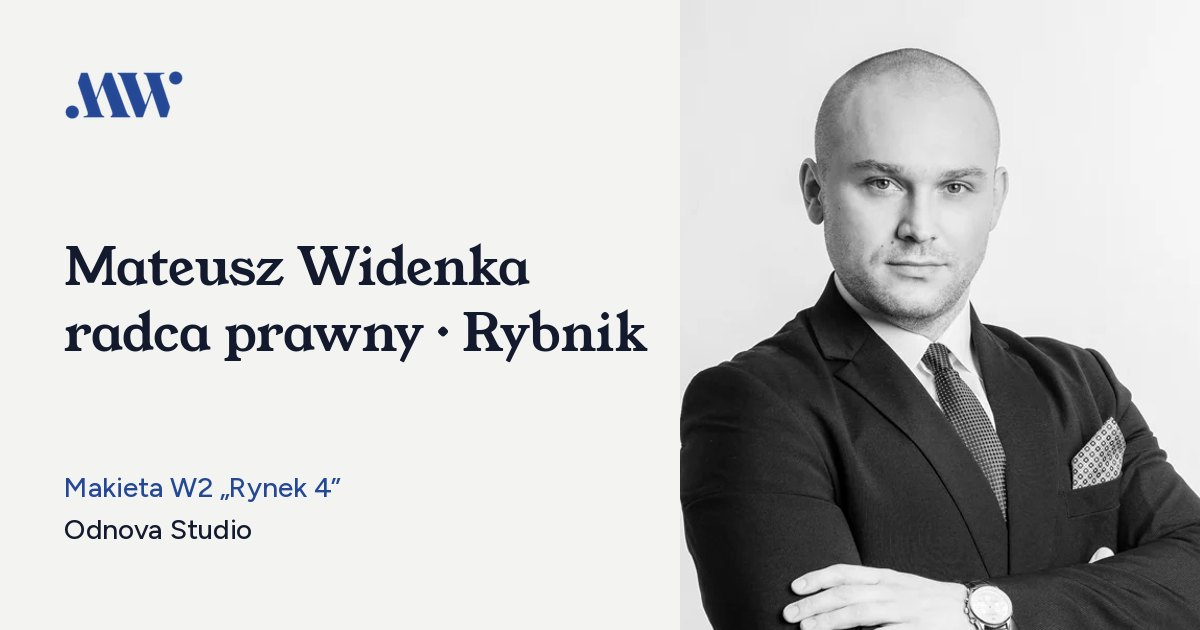
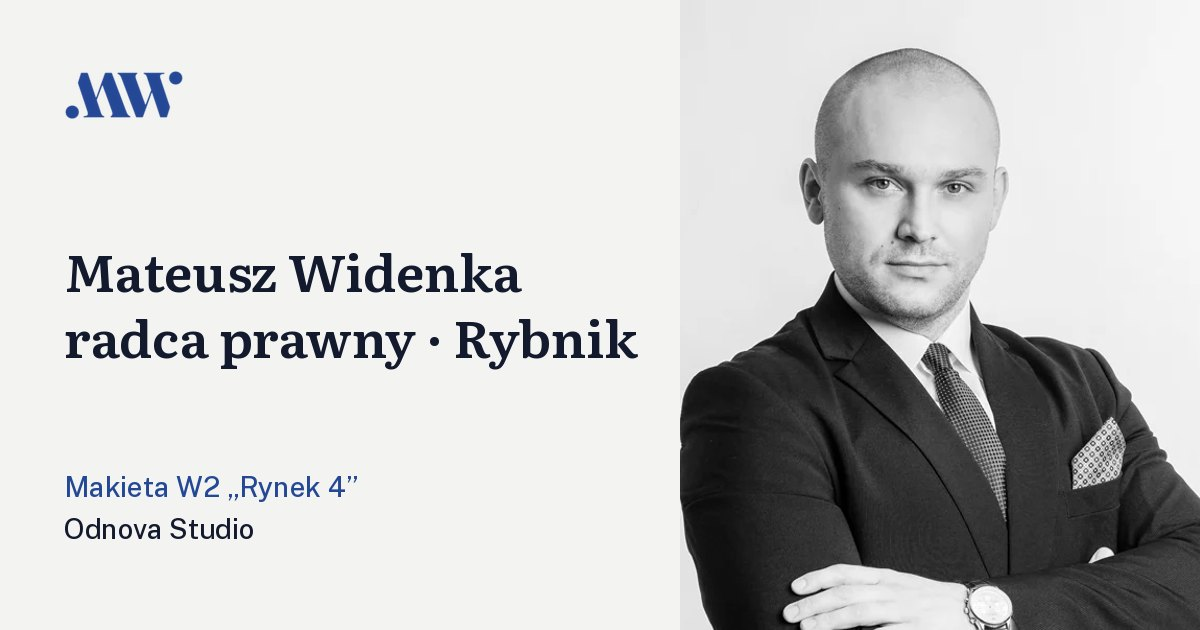
Widenka: nowe kroje i animacje w hero (W1 szyba, W2 uwagi radcy)
Claude-Session: https://claude.ai/code/session_019GJy34qFJ71e5x4yE8umKJ

Changed region(s): [[0.0308, 0.3921, 0.555, 0.6032], [0.0308, 0.754, 0.3083, 0.8746]]

diff --git a/p/widenka-w1-regula/index.html b/p/widenka-w1-regula/index.html
@@ -17,15 +17,16 @@
 <link rel="icon" href="a/fav.png">
 <script>document.documentElement.classList.add('js')</script>
 <link rel="preconnect" href="https://fonts.googleapis.com"><link rel="preconnect" href="https://fonts.gstatic.com" crossorigin>
-<link href="https://fonts.googleapis.com/css2?family=Ibarra+Real+Nova:ital,wght@0,400;0,500;0,600;1,400&family=Hanken+Grotesk:wght@400;500;600&display=swap" rel="stylesheet">
+<link href="https://fonts.googleapis.com/css2?family=Libre+Caslon+Display&family=Rethink+Sans:wght@400;500;600&family=Cinzel:wght@400;500&display=swap" rel="stylesheet">
 <style>
 :root{
   --bg:#0A0F16; --bg2:#101823; --ink:#E7EBEF; --mut:#A3AEBA; --line:rgba(231,235,239,.14);
   --acc:#8FADFF; --paper:#ECEEF0; --pink:#0F1622; --pmut:#4A5463; --pline:#CBD0D6; --pacc:#254896;
-  --serif:'Ibarra Real Nova',Georgia,serif; --sans:'Hanken Grotesk',system-ui,sans-serif;
+  --serif:'Libre Caslon Display',Georgia,serif; --sans:'Rethink Sans',system-ui,sans-serif; --cap:'Cinzel',Georgia,serif;
   --hdr-h:96px;
 }
 *{box-sizing:border-box}
+.sr{position:absolute;width:1px;height:1px;overflow:hidden;clip:rect(0 0 0 0);white-space:nowrap}
 html{scroll-behavior:smooth}
 body{margin:0;background:var(--bg);color:var(--ink);font:400 17px/1.6 var(--sans);-webkit-font-smoothing:antialiased;caret-color:var(--acc);accent-color:var(--pacc)}
 ::selection{background:var(--acc);color:#0A0F16}
@@ -34,7 +35,7 @@ img{max-width:100%;height:auto;display:block}
 a{color:inherit}
 .wrap{width:100%;max-width:1240px;margin:0 auto;padding:0 32px}
 section[id]{scroll-margin-top:calc(var(--hdr-h) + 8px)}
-h1,h2,h3{font-family:var(--serif);font-weight:500;letter-spacing:-.01em;margin:0}
+h1,h2,h3{font-family:var(--serif);font-weight:400;letter-spacing:-.005em;margin:0}
 h2{font-size:clamp(2.3rem,4.4vw,3.7rem);line-height:1.04}
 .lead{font-size:1.15rem;color:var(--mut);max-width:38em}
 .light{background:var(--paper);color:var(--pink)}
@@ -67,24 +68,49 @@ h2{font-size:clamp(2.3rem,4.4vw,3.7rem);line-height:1.04}
 .mnav nav a{padding:12px 20px;text-decoration:none}
 .mnav nav .btn{margin:8px 16px 8px;justify-content:center}
 
-/* hero */
-.hero{position:relative;min-height:100svh;display:flex;align-items:flex-end;overflow:hidden;background:#05080c}
-.hero video,.hero .poster{position:absolute;inset:0;width:100%;height:100%;object-fit:cover;opacity:.78}
-.hero::after{content:"";position:absolute;inset:0;background:linear-gradient(180deg,rgba(10,15,22,.55) 0%,rgba(10,15,22,0) 30%,rgba(10,15,22,.15) 55%,rgba(10,15,22,.92) 88%,var(--bg) 100%)}
-.vctl{position:absolute;right:32px;bottom:32px;z-index:3;min-height:44px;padding:0 16px;background:rgba(10,15,22,.6);color:var(--ink);border:1px solid var(--line);border-radius:2px;font:500 .9rem var(--sans);cursor:pointer}
+/* hero: szyba, która przeciera się przy przewijaniu */
+.hero{position:relative;background:#05080c;--p:0}
+.pin{position:relative;min-height:100svh;display:flex;align-items:flex-end;overflow:hidden}
+.pin video,.pin .poster{position:absolute;inset:0;width:100%;height:100%;object-fit:cover;opacity:calc(.8 - var(--p) * .35)}
+.pin::after{content:"";position:absolute;inset:0;background:linear-gradient(180deg,rgba(10,15,22,.55) 0%,rgba(10,15,22,0) 30%,rgba(10,15,22,.2) 55%,rgba(10,15,22,.93) 90%,var(--bg) 100%)}
+.vctl{position:absolute;right:32px;top:calc(var(--hdr-h) + 20px);z-index:3;min-height:40px;padding:0 14px;background:rgba(10,15,22,.55);color:var(--ink);border:1px solid var(--line);border-radius:2px;font:500 .85rem var(--sans);cursor:pointer}
 .vctl:hover{border-color:var(--ink)}
 html:not(.js) .vctl{display:none}
-.hero .wrap{position:relative;z-index:2;padding-top:calc(var(--hdr-h) + 60px);padding-bottom:64px}
+.hero .wrap{position:relative;z-index:2;padding-top:calc(var(--hdr-h) + 60px);padding-bottom:60px;display:grid;grid-template-columns:7fr 4fr;gap:60px;align-items:end}
+.hero h1{font-size:clamp(2.9rem,6.8vw,6.3rem);line-height:.98;max-width:10em;text-wrap:balance;text-shadow:0 2px 30px rgba(0,0,0,.45)}
+.hero h1::after{content:"";display:block;width:64px;height:3px;background:var(--acc);margin-top:30px;transform-origin:left;animation:zab 1s .9s cubic-bezier(.22,.61,.36,1) both}
+@keyframes zab{from{transform:scaleX(0)}}
+.js .w{display:inline-block;overflow:hidden;vertical-align:bottom;padding:0 .02em .2em;margin:0 -.02em -.2em}
+.js .w>span{display:inline-block;transform:translateY(105%);animation:wup .95s cubic-bezier(.22,.61,.36,1) forwards;animation-delay:calc(.15s + var(--i) * 90ms)}
+@keyframes wup{to{transform:none}}
+.hero p.sub{font-size:1.15rem;max-width:33em;margin:26px 0 32px;color:#D3DAE1;text-shadow:0 1px 16px rgba(0,0,0,.5)}
+.cta{display:flex;flex-wrap:wrap;gap:14px;align-items:center}
+.hero .meta{display:flex;gap:36px;flex-wrap:wrap;margin-top:50px;padding-top:20px;border-top:1px solid var(--line);font-size:.95rem;color:var(--mut)}
+.hero .meta b{color:var(--ink);font-weight:500}
+.pane{margin:0;justify-self:end;width:100%;max-width:430px}
+.glass{position:relative;aspect-ratio:643/603;overflow:hidden;outline:1px solid rgba(231,235,239,.18);outline-offset:10px}
+.glass img{position:absolute;inset:0;width:100%;height:100%;object-fit:cover}
+.glass .frost,.glass .tint{clip-path:inset(0 0 0 calc(var(--p) * 100%))}
+.glass .frost{filter:blur(18px) saturate(.45) brightness(1.12) contrast(.8);transform:scale(1.12)}
+.glass .tint{position:absolute;inset:0;background:repeating-linear-gradient(90deg,rgba(214,226,238,.16) 0 46px,rgba(214,226,238,.05) 46px 50px,rgba(214,226,238,.22) 50px 52px),linear-gradient(180deg,rgba(190,206,222,.28),rgba(120,140,160,.18))}
+.glass .tint::after{content:"";position:absolute;inset:0;background:linear-gradient(105deg,transparent 30%,rgba(255,255,255,.28) 48%,transparent 62%);transform:translateX(-120%);animation:shine 2.4s 1.6s ease-in-out both}
+@keyframes shine{to{transform:translateX(120%)}}
+.glass .edge{position:absolute;top:0;bottom:0;left:calc(var(--p) * 100%);width:2px;margin-left:-1px;background:linear-gradient(180deg,transparent,#DCE7FF 20%,#fff 50%,#DCE7FF 80%,transparent);box-shadow:0 0 22px 6px rgba(143,173,255,.45);opacity:calc(min(var(--p) * 12, 1) * min((1 - var(--p)) * 12, 1))}
+.pane figcaption{display:flex;justify-content:space-between;gap:16px;margin-top:22px;font-size:.92rem;color:var(--mut)}
+.pane figcaption b{color:var(--ink);font-weight:500}
+.pane .pbar{height:1px;background:rgba(231,235,239,.18);margin-top:14px;position:relative}
+.pane .pbar::after{content:"";position:absolute;left:0;top:-1px;height:3px;width:calc(var(--p) * 100%);background:var(--acc)}
+html:not(.js) .glass .frost,html:not(.js) .glass .tint,html:not(.js) .glass .edge,html:not(.js) .pane .pbar{display:none}
+@media (min-width:1021px){
+  .js .hero{height:235vh}
+  .js .pin{position:sticky;top:0;height:100svh}
+}
 .regula{margin-bottom:110px;padding-bottom:70px;border-bottom:1px solid var(--line)}
-.regula blockquote{margin:0;font:italic 400 clamp(1.8rem,3.6vw,3.2rem)/1.18 var(--serif);max-width:19em}
+.regula blockquote{margin:0;font:400 clamp(1.45rem,3vw,2.7rem)/1.3 var(--cap);letter-spacing:.05em;max-width:22em;color:#DCE3EA}
+.js .regula blockquote span{display:inline-block;filter:blur(9px);opacity:.2;transition:filter 1.1s ease,opacity 1.1s ease;transition-delay:calc(var(--i,0)*110ms)}
+.js .regula.in blockquote span{filter:none;opacity:1}
 .regula p{color:var(--mut);margin:18px 0 0;font-size:1.05rem}
 .regula p::before{content:"";display:inline-block;width:34px;height:2px;background:var(--acc);vertical-align:middle;margin-right:14px}
-.hero h1{font-size:clamp(2.8rem,6.6vw,6rem);line-height:.98;max-width:10em;text-wrap:balance;text-shadow:0 2px 30px rgba(0,0,0,.45)}
-.hero h1::after{content:"";display:block;width:64px;height:3px;background:var(--acc);margin-top:30px}
-.hero p.sub{font-size:1.18rem;max-width:34em;margin:26px 0 34px;color:#D3DAE1;text-shadow:0 1px 16px rgba(0,0,0,.5)}
-.cta{display:flex;flex-wrap:wrap;gap:14px;align-items:center}
-.hero .meta{display:flex;gap:36px;flex-wrap:wrap;margin-top:54px;padding-top:20px;border-top:1px solid var(--line);font-size:.95rem;color:var(--mut)}
-.hero .meta b{color:var(--ink);font-weight:500}
 
 /* sprawy */
 .sprawy{padding:130px 0 120px}
@@ -117,7 +143,7 @@ html:not(.js) .vctl{display:none}
 .omnie p{color:#CAD2DA;margin:0 0 18px;max-width:36em}
 .facts{margin:38px 0 0;padding:0;list-style:none;border-top:1px solid var(--line)}
 .facts li{padding:18px 0;border-bottom:1px solid var(--line);color:var(--mut)}
-.facts li b{font-family:var(--serif);font-weight:500;font-size:1.32rem;color:var(--ink);display:block;line-height:1.2;margin-bottom:2px}
+.facts li b{font-family:var(--sans);font-weight:600;font-size:1.06rem;color:var(--ink);display:block;line-height:1.2;margin-bottom:2px}
 
 /* proces */
 .proces{padding:120px 0}
@@ -127,7 +153,7 @@ html:not(.js) .vctl{display:none}
 .step .n{font-family:var(--serif);font-size:2.6rem;line-height:1;color:var(--pacc);margin:26px 0 14px}
 .step::before{content:"";position:absolute;top:-1px;left:0;height:2px;width:0;background:var(--pacc);transition:width 1s cubic-bezier(.22,.61,.36,1)}
 .step.in::before{width:calc(100% - 28px)}
-.step h3{font-size:1.45rem;margin-bottom:10px}
+.step h3{font-family:var(--sans);font-weight:600;font-size:1.12rem;margin-bottom:8px}
 .step p{margin:0;color:var(--pmut);font-size:.99rem}
 
 /* opinie */
@@ -136,7 +162,8 @@ html:not(.js) .vctl{display:none}
 .opinie h2{margin-bottom:56px}
 .quotes{display:grid;grid-template-columns:7fr 5fr;gap:0 70px}
 .q{margin:0;padding:30px 0;border-top:1px solid var(--line)}
-.q p{margin:0;font-family:var(--serif);font-size:1.35rem;line-height:1.45;color:#DCE2E8}
+.q p{margin:0;font-size:1.08rem;line-height:1.6;color:#DCE2E8}
+.q.big p{font-family:var(--serif)}
 .q.big{grid-row:span 2}
 .q.big p{font-size:clamp(1.6rem,2.4vw,2.15rem);line-height:1.3;color:var(--ink)}
 .q footer{margin-top:16px;font-size:.92rem;color:var(--mut)}
@@ -161,7 +188,7 @@ html:not(.js) .vctl{display:none}
 .dane{list-style:none;margin:36px 0 0;padding:0}
 .dane li{padding:18px 0;border-top:1px solid var(--line)}
 .dane span{display:block;font-size:.88rem;color:var(--mut)}
-.dane a,.dane strong{font-family:var(--serif);font-size:1.55rem;font-weight:500;text-decoration:none;font-variant-numeric:lining-nums}
+.dane a,.dane strong{font-family:var(--serif);font-size:1.6rem;font-weight:400;text-decoration:none;font-variant-numeric:lining-nums}
 .dane .tnum{font-family:var(--sans);font-size:1.45rem;font-variant-numeric:lining-nums tabular-nums}
 .form{background:var(--paper);color:var(--pink);padding:44px}
 .form h3{font-size:1.7rem;margin-bottom:6px}
@@ -197,6 +224,8 @@ footer.site .legal{flex-basis:100%;font-size:.82rem;color:#7D8996}
   .mnav{display:block}
   .hdr .wrap{gap:14px}
   .hdr .hcta{margin-left:auto}
+  .hero .wrap{grid-template-columns:1fr;gap:44px}
+  .pane{justify-self:stretch;max-width:520px}
   .sprawy .head,.inne,.omnie .grid,.kontakt .grid{grid-template-columns:1fr;gap:36px}
   .case{grid-template-columns:1fr;gap:18px}
   .steps{grid-template-columns:1fr 1fr;gap:10px 0}
@@ -211,9 +240,10 @@ footer.site .legal{flex-basis:100%;font-size:.82rem;color:#7D8996}
   .wrap{padding:0 20px}
   .brand img{width:38px}
   .brand span{font-size:1.06rem}
-  .hero{min-height:92svh}
   .hero .wrap{padding-bottom:40px}
-  .vctl{right:20px;top:calc(var(--hdr-h) + 14px);bottom:auto;min-height:40px;font-size:.85rem}
+  .glass{aspect-ratio:4/3;outline-offset:6px}
+  .glass img{object-position:50% 25%}
+  .vctl{right:20px;top:calc(var(--hdr-h) + 14px)}
   .hero .meta{gap:10px 24px;margin-top:36px}
   .cta .btn{flex:1 1 100%;justify-content:center}
   .sprawy,.omnie,.opinie,.kontakt{padding:84px 0}
@@ -240,6 +270,9 @@ footer.site .legal{flex-basis:100%;font-size:.82rem;color:#7D8996}
 @media (prefers-reduced-motion:reduce){
   html{scroll-behavior:auto}
   .js .reveal{opacity:1;transform:none;transition:none}
+  .js .w>span,.hero h1::after{animation:none;transform:none}
+  .js .regula blockquote span{filter:none;opacity:1;transition:none}
+  .glass .tint::after{animation:none}
   .step::before{transition:none}
 }
 </style>
@@ -270,6 +303,7 @@ footer.site .legal{flex-basis:100%;font-size:.82rem;color:#7D8996}
 
 <main>
 <section class="hero" id="start">
+ <div class="pin">
   <img class="poster" src="a/w1-hero-poster.jpg" alt="">
   <video autoplay muted loop playsinline preload="auto" poster="a/w1-hero-poster.jpg" aria-hidden="true">
     <source media="(max-width:760px)" src="a/w1-hero-720.mp4" type="video/mp4">
@@ -277,14 +311,27 @@ footer.site .legal{flex-basis:100%;font-size:.82rem;color:#7D8996}
   </video>
   <button class="vctl" type="button" aria-pressed="false">Zatrzymaj film</button>
   <div class="wrap">
-    <h1>Radca prawny w&nbsp;Rybniku</h1>
-    <p class="sub">Prawo pracy, umowy i&nbsp;spory z&nbsp;bankami. Mateusz Widenka, kancelaria przy Rynku 4/1. Doradzam, piszę pisma i&nbsp;występuję przed sądem. Spotkanie w&nbsp;kancelarii, w&nbsp;Państwa firmie albo zdalnie.</p>
-    <div class="cta">
-      <a class="btn" href="tel:+48792055316"><svg viewBox="0 0 24 24" fill="none" stroke="currentColor" stroke-width="1.8" aria-hidden="true"><path d="M5 4h4l2 5-2.5 1.5a11 11 0 0 0 5 5L15 13l5 2v4a2 2 0 0 1-2 2A16 16 0 0 1 3 6a2 2 0 0 1 2-2"/></svg>Zadzwoń: 792 055 316</a>
-      <a class="btn ghost" href="#kontakt">Wyślij opis sprawy</a>
+    <div>
+      <h1 data-words>Radca prawny w&nbsp;Rybniku</h1>
+      <p class="sub">Prawo pracy, umowy i&nbsp;spory z&nbsp;bankami. Mateusz Widenka, kancelaria przy Rynku 4/1. Doradzam, piszę pisma i&nbsp;występuję przed sądem. Spotkanie w&nbsp;kancelarii, w&nbsp;Państwa firmie albo zdalnie.</p>
+      <div class="cta">
+        <a class="btn" href="tel:+48792055316"><svg viewBox="0 0 24 24" fill="none" stroke="currentColor" stroke-width="1.8" aria-hidden="true"><path d="M5 4h4l2 5-2.5 1.5a11 11 0 0 0 5 5L15 13l5 2v4a2 2 0 0 1-2 2A16 16 0 0 1 3 6a2 2 0 0 1 2-2"/></svg>Zadzwoń: 792 055 316</a>
+        <a class="btn ghost" href="#kontakt">Wyślij opis sprawy</a>
+      </div>
+      <div class="meta"><span><b>Wpis KT-4093</b> · OIRP w&nbsp;Katowicach</span><span><b>Od 2019 r.</b> własna kancelaria</span><span><b>Online</b> w&nbsp;całej Polsce</span></div>
     </div>
-    <div class="meta"><span><b>Wpis KT-4093</b> · OIRP w&nbsp;Katowicach</span><span><b>Od 2019 r.</b> własna kancelaria</span><span><b>Online</b> w&nbsp;całej Polsce</span></div>
+    <figure class="pane">
+      <div class="glass">
+        <img src="a/portret-toga.webp" alt="Radca prawny Mateusz Widenka w todze" width="643" height="603">
+        <img class="frost" src="a/portret-toga.webp" alt="" aria-hidden="true">
+        <div class="tint" aria-hidden="true"></div>
+        <div class="edge" aria-hidden="true"></div>
+      </div>
+      <div class="pbar" aria-hidden="true"></div>
+      <figcaption><b>Mateusz Widenka</b><span>radca prawny od 2018 r.</span></figcaption>
+    </figure>
   </div>
+ </div>
 </section>
 
 <section class="sprawy light" id="sprawy">
@@ -331,7 +378,7 @@ footer.site .legal{flex-basis:100%;font-size:.82rem;color:#7D8996}
 </section>
 
 <section class="omnie" id="o-mnie">
-  <div class="wrap regula"><blockquote lang="la">Non ex regula ius sumatur, sed ex iure quod est regula fiat</blockquote><p>Reguły nie tworzą prawa, lecz się z&nbsp;niego wywodzą.</p></div>
+  <div class="wrap regula" data-split><blockquote lang="la">Non ex regula ius sumatur, sed ex iure quod est regula fiat</blockquote><p>Reguły nie tworzą prawa, lecz się z&nbsp;niego wywodzą.</p></div>
   <div class="wrap grid">
     <figure class="fig">
       <img src="a/portret-toga.webp" alt="Radca prawny Mateusz Widenka w todze" width="643" height="603" loading="lazy">
@@ -435,14 +482,26 @@ footer.site .legal{flex-basis:100%;font-size:.82rem;color:#7D8996}
   var d=document, html=d.documentElement, top=d.querySelector('.top');
   function m(){html.style.setProperty('--hdr-h',top.offsetHeight+'px')}
   m(); addEventListener('resize',m); addEventListener('load',m);
-  var hero=d.querySelector('.hero');
+  var hero=d.querySelector('.hero'), pane=d.querySelector('.pane'), RM=matchMedia('(prefers-reduced-motion:reduce)').matches, wide=matchMedia('(min-width:1021px)');
+  // słowa H1 i maksymy
+  d.querySelectorAll('[data-words]').forEach(function(h){var t=h.textContent.split(' ');var full=h.textContent;h.innerHTML=t.map(function(w,i){return '<span class="w" aria-hidden="true" style="--i:'+i+'"><span>'+w+'</span></span>'}).join(' ')+'<span class="sr">'+full+'</span>'});
+  d.querySelectorAll('[data-split] blockquote').forEach(function(b){var t=b.textContent.split(' ');b.innerHTML=t.map(function(w,i){return '<span style="--i:'+i+'">'+w+'</span>'}).join(' ')});
+  // szyba
+  var tick=false;
+  function prog(){tick=false;var p;
+    if(RM)p=1;
+    else if(wide.matches){var r=hero.getBoundingClientRect();p=-r.top/((r.height-innerHeight)*.8)}
+    else{var q=pane.getBoundingClientRect();p=(innerHeight*.92-q.top)/(innerHeight*.55)}
+    p=Math.max(0,Math.min(1,p));hero.style.setProperty('--p',p.toFixed(4))}
+  addEventListener('scroll',function(){if(!tick){tick=true;requestAnimationFrame(prog)}},{passive:true});
+  addEventListener('resize',prog); prog();
   function onS(){
     d.body.classList.toggle('scrolled',scrollY>20);
     d.body.classList.toggle('past-hero',hero.getBoundingClientRect().bottom<innerHeight*.5);
   }
   addEventListener('scroll',onS,{passive:true}); onS();
   d.querySelectorAll('.mnav nav a').forEach(function(a){a.addEventListener('click',function(){a.closest('details').open=false})});
-  var els=[].slice.call(d.querySelectorAll('.reveal,.step')), fired=false;
+  var els=[].slice.call(d.querySelectorAll('.reveal,.step,.regula')), fired=false;
   if('IntersectionObserver' in window){
     var io=new IntersectionObserver(function(es){es.forEach(function(e){if(e.isIntersecting){fired=true;e.target.classList.add('in');io.unobserve(e.target)}})},{rootMargin:'0px 0px -12% 0px'});
     els.forEach(function(e){io.observe(e)});

diff --git a/p/widenka-w2-rynek/index.html b/p/widenka-w2-rynek/index.html
@@ -17,14 +17,15 @@
 <link rel="icon" href="a/fav.png">
 <script>document.documentElement.classList.add('js')</script>
 <link rel="preconnect" href="https://fonts.googleapis.com"><link rel="preconnect" href="https://fonts.gstatic.com" crossorigin>
-<link href="https://fonts.googleapis.com/css2?family=Young+Serif&family=Figtree:ital,wght@0,400;0,500;0,600;1,400&display=swap" rel="stylesheet">
+<link href="https://fonts.googleapis.com/css2?family=Literata:opsz,wght@7..72,400;7..72,500;7..72,600&family=Public+Sans:wght@400;500;600&family=Caveat:wght@500&display=swap" rel="stylesheet">
 <style>
 :root{
   --bg:#F3F4F1; --white:#FBFBF9; --ink:#141A2E; --mut:#555D70; --line:#D6D9D2;
   --acc:#254896; --acc2:#2F62E8; --navy:#121C3A; --navy2:#18244A; --nink:#EEF1F7; --nmut:#AEB8CE; --nline:rgba(238,241,247,.16);
-  --serif:'Young Serif',Georgia,serif; --sans:'Figtree',system-ui,sans-serif; --hdr-h:96px;
+  --serif:'Literata',Georgia,serif; --sans:'Public Sans',system-ui,sans-serif; --hand:'Caveat',cursive; --hdr-h:96px;
 }
 *{box-sizing:border-box}
+.sr{position:absolute;width:1px;height:1px;overflow:hidden;clip:rect(0 0 0 0);white-space:nowrap}
 html{scroll-behavior:smooth}
 body{margin:0;background:var(--bg);color:var(--ink);font:400 17px/1.62 var(--sans);-webkit-font-smoothing:antialiased;caret-color:var(--acc);accent-color:var(--acc)}
 ::selection{background:var(--acc);color:#fff}
@@ -33,7 +34,8 @@ img{max-width:100%;height:auto;display:block}
 a{color:inherit}
 .wrap{width:100%;max-width:1280px;margin:0 auto;padding:0 36px}
 section[id]{scroll-margin-top:calc(var(--hdr-h) + 8px)}
-h1,h2,h3{font-family:var(--serif);font-weight:400;margin:0;letter-spacing:-.012em}
+h1,h2,h3{font-family:var(--serif);font-weight:500;margin:0;letter-spacing:-.018em}
+h1,h2{font-weight:600}
 h2{font-size:clamp(2.2rem,4.2vw,3.6rem);line-height:1.06}
 .dark{background:var(--navy);color:var(--nink)}
 .lead{font-size:1.14rem;color:var(--mut);max-width:36em}
@@ -46,7 +48,7 @@ h2{font-size:clamp(2.2rem,4.2vw,3.6rem);line-height:1.06}
 .hdr .wrap{display:flex;align-items:center;gap:30px;height:70px}
 .brand{display:flex;align-items:center;gap:14px;text-decoration:none}
 .brand img{width:52px}
-.brand span{font-family:var(--serif);font-size:1.18rem;line-height:1.05;padding-left:14px;border-left:1px solid var(--line)}
+.brand span{font-family:var(--serif);font-weight:600;font-size:1.14rem;line-height:1.05;padding-left:14px;border-left:1px solid var(--line)}
 .brand small{display:block;font-family:var(--sans);font-size:.8rem;color:var(--mut)}
 .nav{display:flex;gap:26px;margin-left:auto}
 .nav a{text-decoration:none;font-size:.97rem;color:var(--mut);font-weight:500}
@@ -66,16 +68,27 @@ h2{font-size:clamp(2.2rem,4.2vw,3.6rem);line-height:1.06}
 
 /* hero */
 .hero{padding:calc(var(--hdr-h) + 56px) 0 80px}
-.hero .grid{display:grid;grid-template-columns:7fr 5fr;gap:64px;align-items:end}
+.hero .grid{display:grid;grid-template-columns:6fr 6fr;gap:56px;align-items:center}
 .hero h1{font-size:clamp(2.5rem,4.8vw,4.5rem);line-height:1.04;text-wrap:balance}
 .hero h1 .who{display:block;font-family:var(--sans);font-size:1.05rem;font-weight:500;letter-spacing:0;color:var(--mut);margin-top:26px;line-height:1.4}
+.js .w{display:inline-block;overflow:hidden;vertical-align:bottom;padding:0 .02em .2em;margin:0 -.02em -.2em}
+.js .w>span{display:inline-block;transform:translateY(105%);animation:wup .9s cubic-bezier(.22,.61,.36,1) forwards;animation-delay:calc(.1s + var(--i) * 70ms)}
+@keyframes wup{to{transform:none}}
 .hero p.sub{font-size:1.16rem;color:var(--mut);max-width:31em;margin:22px 0 34px}
 .cta{display:flex;flex-wrap:wrap;gap:14px}
-.frame{position:relative;aspect-ratio:4/5;overflow:hidden;background:#e9eae6;max-height:620px;justify-self:end;width:100%}
+.desk{position:relative;padding-bottom:40px}
+.frame{position:relative;aspect-ratio:4/5;overflow:hidden;background:#e9eae6;width:76%;max-height:600px;margin-left:auto}
 .frame img{position:absolute;inset:0;width:100%;height:100%;object-fit:cover;object-position:50% 22%;filter:grayscale(1) contrast(1.04)}
-.frame .stamp{position:absolute;left:0;bottom:0;background:var(--bg);padding:16px 22px 0 0;max-width:80%}
-.stamp strong{display:block;font-family:var(--serif);font-weight:400;font-size:1.3rem;line-height:1.3}
-.stamp span{font-size:.92rem;color:var(--mut)}
+.paper{position:absolute;left:0;bottom:0;width:66%;background:#fff;padding:24px 26px 18px;transform:rotate(-2deg);box-shadow:0 34px 60px -28px rgba(20,26,46,.45);font-size:.92rem;line-height:1.45}
+.paper .ph{font-family:var(--serif);font-weight:600;font-size:1.05rem;margin:0 0 12px;padding-bottom:10px;border-bottom:1px solid #E2E4DE}
+.paper ol{list-style:none;margin:0;padding:0}
+.paper li{margin:0 0 12px}
+.cl{background:linear-gradient(var(--acc2),var(--acc2)) no-repeat 0 60%/0% 2px;transition:background-size .6s cubic-bezier(.6,0,.3,1),color .6s;transition-delay:var(--d)}
+.nt{display:block;font:500 1.32rem/1.15 var(--hand);color:var(--acc2);margin-top:2px;clip-path:inset(0 100% 0 0);transition:clip-path .9s ease;transition-delay:calc(var(--d) + .55s);transform:rotate(-1deg);transform-origin:left}
+.paper li:nth-child(1){--d:.4s}.paper li:nth-child(2){--d:1.75s}.paper li:nth-child(3){--d:3.1s}
+.paper .sig{display:block;width:150px;margin:4px 0 0 auto;clip-path:inset(0 100% 0 0);transition:clip-path 1.3s ease 4.4s}
+.paper.in .cl,html:not(.js) .cl{background-size:100% 2px;color:#7A8090}
+.paper.in .nt,.paper.in .sig,html:not(.js) .nt,html:not(.js) .paper .sig{clip-path:inset(0)}
 .hero .row3{display:grid;grid-template-columns:repeat(3,1fr);margin-top:72px;border-top:1px solid var(--ink)}
 .row3 a{display:block;text-decoration:none;padding:20px 24px 0 0;font-size:.98rem;color:var(--mut)}
 .row3 a:hover b{color:var(--acc)}
@@ -117,6 +130,8 @@ h2{font-size:clamp(2.2rem,4.2vw,3.6rem);line-height:1.06}
 .letter p:first-of-type::first-letter{font-family:var(--serif);float:left;font-size:4.3rem;line-height:.82;padding:8px 10px 0 0;color:var(--acc)}
 .sign{margin-top:30px;display:flex;align-items:center;gap:22px}
 .sign img{width:210px}
+.js .sign img{clip-path:inset(0 100% 0 0);transition:clip-path 1.5s ease .3s}
+.js .sign.in img{clip-path:inset(0)}
 .sign span{font-size:.92rem;color:var(--mut);line-height:1.4}
 .portret img{width:100%;aspect-ratio:4/5;object-fit:cover;object-position:50% 20%;filter:grayscale(1) contrast(1.04)}
 .portret ul{list-style:none;margin:22px 0 0;padding:0}
@@ -209,7 +224,9 @@ footer.site .legal{flex-basis:100%;font-size:.84rem;border-top:1px solid var(--n
   .hdr .wrap{gap:14px}
 
   .hero .grid,.tabs,.reszta,.list .grid,.online .grid,.faq .grid,.kontakt .grid{grid-template-columns:1fr;gap:40px}
-  .frame{aspect-ratio:16/10}
+  .frame{width:100%;aspect-ratio:16/11}
+  .desk{padding-bottom:0}
+  .paper{position:relative;width:calc(100% - 28px);margin:-56px 0 0 14px}
   .opinie .q3{grid-template-columns:1fr;gap:34px}
   .list .portret{max-width:420px}
 }
@@ -222,6 +239,8 @@ footer.site .legal{flex-basis:100%;font-size:.84rem;border-top:1px solid var(--n
   .hero .row3{grid-template-columns:1fr;margin-top:40px}
   .row3 a{padding:14px 0;border-bottom:1px solid var(--line)}
   .frame{aspect-ratio:4/3}
+  .paper{padding:20px 18px 14px}
+  .nt{font-size:1.2rem}
   .spec,.list,.online,.faq,.opinie,.kontakt{padding:80px 0}
   .panel ul{grid-template-columns:1fr}
   .tab{font-size:1.3rem;padding:16px 0}
@@ -242,6 +261,10 @@ footer.site .legal{flex-basis:100%;font-size:.84rem;border-top:1px solid var(--n
 @media (prefers-reduced-motion:reduce){
   html{scroll-behavior:auto}
   .js .reveal{opacity:1;transform:none;transition:none}
+  .js .w>span{animation:none;transform:none}
+  .cl,.nt,.paper .sig,.js .sign img{transition:none}
+  .js .paper .cl{background-size:100% 2px;color:#7A8090}
+  .js .paper .nt,.js .paper .sig,.js .sign img{clip-path:inset(0)}
 }
 </style>
 </head>
@@ -274,16 +297,24 @@ footer.site .legal{flex-basis:100%;font-size:.84rem;border-top:1px solid var(--n
   <div class="wrap">
     <div class="grid">
       <div>
-        <h1>Prawo pracy, umowy i&nbsp;spory z&nbsp;bankami<span class="who">Radca prawny Mateusz Widenka · Rynek 4/1, Rybnik · porady także online</span></h1>
+        <h1><span data-words>Prawo pracy, umowy i&nbsp;spory z&nbsp;bankami</span><span class="who">Radca prawny Mateusz Widenka · Rynek 4/1, Rybnik · porady także online</span></h1>
         <p class="sub">Doradzam osobom prywatnym i&nbsp;firmom, piszę pisma i&nbsp;reprezentuję przed sądem. Na początku mówię wprost, jakie są szanse i&nbsp;ile to będzie kosztować.</p>
         <div class="cta">
           <a class="btn" href="tel:+48792055316"><svg viewBox="0 0 24 24" fill="none" stroke="currentColor" stroke-width="1.8" aria-hidden="true"><path d="M5 4h4l2 5-2.5 1.5a11 11 0 0 0 5 5L15 13l5 2v4a2 2 0 0 1-2 2A16 16 0 0 1 3 6a2 2 0 0 1 2-2"/></svg>792 055 316</a>
           <a class="btn line" href="#online">Porada online</a>
         </div>
       </div>
-      <div class="frame">
-        <img src="a/portret-ramiona.webp" alt="Radca prawny Mateusz Widenka" width="643" height="603">
-        <div class="stamp"><strong>Mateusz Widenka</strong><span>radca prawny, wpis KT-4093</span></div>
+      <div class="desk">
+        <div class="frame"><img src="a/portret-ramiona.webp" alt="Radca prawny Mateusz Widenka" width="643" height="603"></div>
+        <div class="paper" role="img" aria-label="Przykład: umowa z poprawkami radcy prawnego — trzy postanowienia skreślone z uzasadnieniem i podpis">
+          <p class="ph">Projekt umowy — uwagi</p>
+          <ol>
+            <li><span class="cl">§ 3. Pracodawca może wypowiedzieć umowę bez podania przyczyny.</span><em class="nt">art. 30 § 4 k.p. — przyczyna musi być podana</em></li>
+            <li><span class="cl">§ 4. Kurs CHF ustala Bank według własnej tabeli.</span><em class="nt">klauzula abuzywna, art. 385¹ k.c.</em></li>
+            <li><span class="cl">§ 7. Reklamacje nie będą rozpatrywane.</span><em class="nt">sprzeczne z&nbsp;prawami konsumenta</em></li>
+          </ol>
+          <img class="sig" src="a/podpis-blue.png" alt="" width="404" height="94">
+        </div>
       </div>
     </div>
     <div class="row3">
@@ -457,6 +488,8 @@ footer.site .legal{flex-basis:100%;font-size:.84rem;border-top:1px solid var(--n
   function m(){html.style.setProperty('--hdr-h',top.offsetHeight+'px')}
   m(); addEventListener('resize',m); addEventListener('load',m);
   var hero=d.querySelector('.hero');
+  d.querySelectorAll('[data-words]').forEach(function(h){var t=h.textContent.split(' ');var full=h.textContent;h.innerHTML=t.map(function(w,i){return '<span class="w" aria-hidden="true" style="--i:'+i+'"><span>'+w+'</span></span>'}).join(' ')+'<span class="sr">'+full+'</span>'});
+  var paper=d.querySelector('.paper');
   function onS(){d.body.classList.toggle('past-hero',hero.getBoundingClientRect().bottom<innerHeight*.5)}
   addEventListener('scroll',onS,{passive:true}); onS();
   d.querySelectorAll('.mnav nav a').forEach(function(a){a.addEventListener('click',function(){a.closest('details').open=false})});
@@ -469,7 +502,7 @@ footer.site .legal{flex-basis:100%;font-size:.84rem;border-top:1px solid var(--n
   setup();mq.addEventListener('change',setup);
   tabs.forEach(function(t,i){t.addEventListener('click',function(){sel(t)});t.addEventListener('keydown',function(e){if(!on())return;var k=e.key==='ArrowDown'||e.key==='ArrowRight'?1:e.key==='ArrowUp'||e.key==='ArrowLeft'?-1:0;if(k){e.preventDefault();sel(tabs[(i+k+tabs.length)%tabs.length],true)}})});
   // reveal
-  var els=[].slice.call(d.querySelectorAll('.reveal')), fired=false;
+  var els=[].slice.call(d.querySelectorAll('.reveal,.paper,.sign')), fired=false;
   if('IntersectionObserver' in window){
     var io=new IntersectionObserver(function(es){es.forEach(function(e){if(e.isIntersecting){fired=true;e.target.classList.add('in');io.unobserve(e.target)}})},{rootMargin:'0px 0px -10% 0px'});
     els.forEach(function(e){io.observe(e)});
